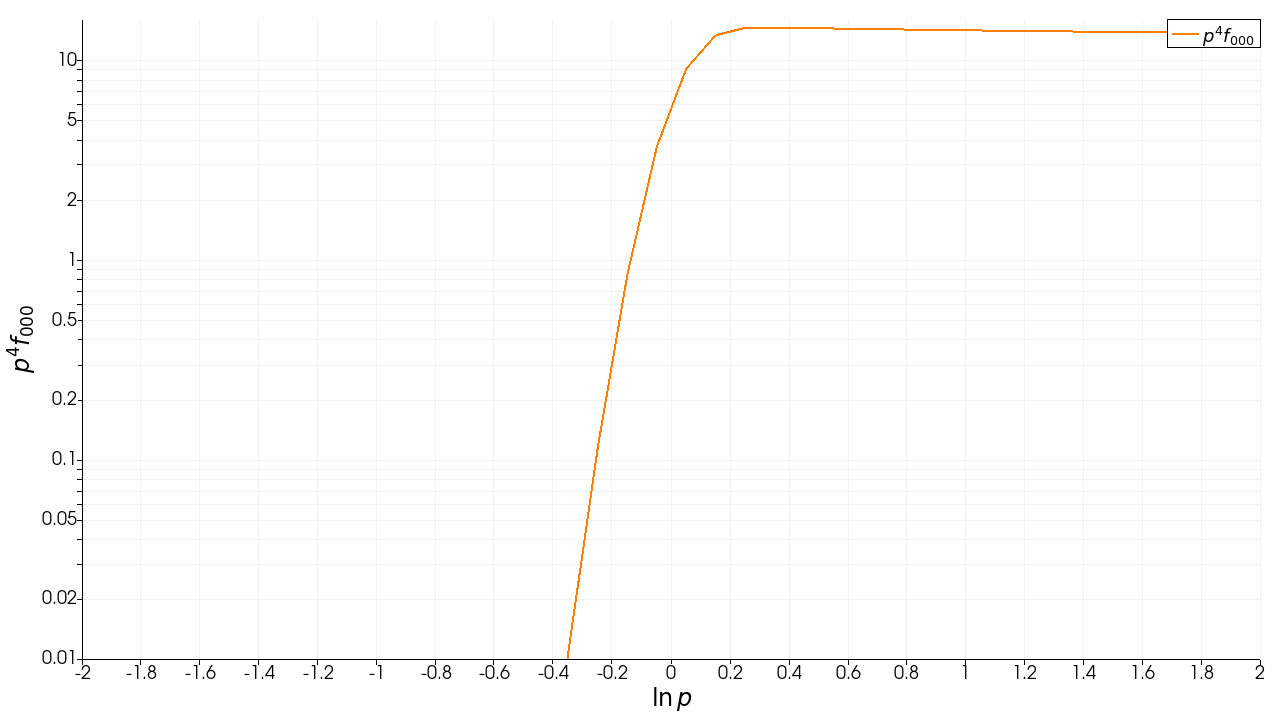
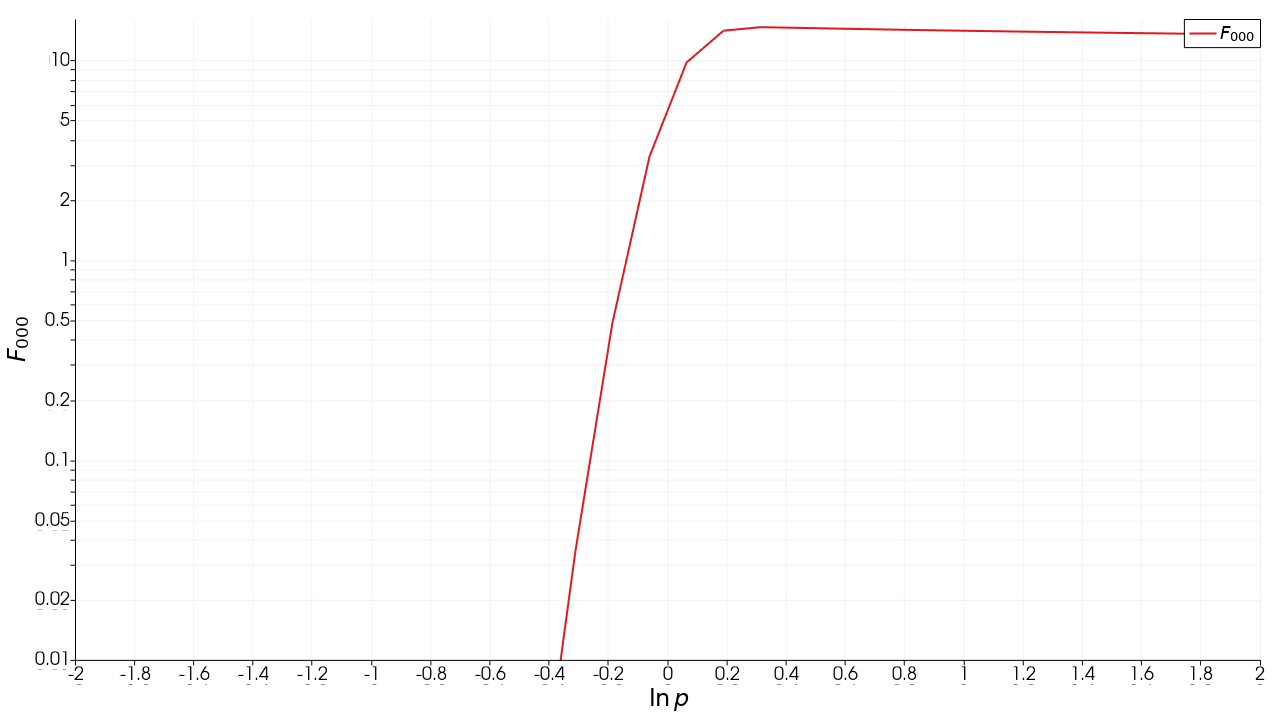
refactor(vfp): Rename scaled f: p^s f -> F

diff --git a/src/sapphireppplot/plot_properties_vfp.py b/src/sapphireppplot/plot_properties_vfp.py
@@ -27,7 +27,7 @@ class PlotPropertiesVFP(PlotProperties):
     scaled_distribution_function: bool = False
     """
     Is the distribution function scaled in Sapphire++ as
-    :math:`g = p^s f`?
+    :math:`g = p^3 f`?
     """
 
     lms_indices: Sequence[tuple[int, int, int]] = field(default_factory=list)
@@ -189,7 +189,7 @@ class PlotPropertiesVFP(PlotProperties):
             Prefix.
         base_name
             Base name for variable.
-            Defaults to "f", "g" or "p^s f".
+            Defaults to "f", "g" or "F".
 
         Returns
         -------
@@ -201,7 +201,7 @@ class PlotPropertiesVFP(PlotProperties):
             if self.scaled_distribution_function:
                 base_name = "g"
             if self._spectral_index:
-                base_name = "p^s f"
+                base_name = "F"
 
         return (
             prefix + f"{base_name}_{lms_index[0]}{lms_index[1]}{lms_index[2]}"
@@ -224,7 +224,7 @@ class PlotPropertiesVFP(PlotProperties):
             Postfix annotation of quantity.
         variable_name
             Name of the variable.
-            Defaults to "f", "g" or "p^s f".
+            Defaults to "f", "g" or "F".
 
         Returns
         -------
@@ -236,7 +236,7 @@ class PlotPropertiesVFP(PlotProperties):
             if self.scaled_distribution_function:
                 variable_name = "g"
             if self._spectral_index:
-                variable_name = f"p^{{ {self._spectral_index:g} }} f"
+                variable_name = "F"
 
         tmp_postfix = ""
         if annotation:

diff --git a/src/sapphireppplot/vfp.py b/src/sapphireppplot/vfp.py
@@ -348,7 +348,7 @@ def scale_distribution_function(
     spectral_index: float = 4.0,
 ) -> tuple[paraview.servermanager.SourceProxy, PlotPropertiesVFP]:
     """
-    Scales the distribution function to the desired spectral index :math:`s`.
+    Compute the scaled distribution function :math:`F_{lms}`.
 
     This will create a number of calculator objects,
     each scaling one specific lms_index.
@@ -356,19 +356,19 @@ def scale_distribution_function(
     Parameters
     ----------
     solution
-        The the data to scale.
+        The the data to scale, :math:`f_{lms}` or :math:`g_{lms}`.
     plot_properties_in
         Properties of the source.
     lms_indices
         The list of indices ``[(l_1,m_1,s_1), (l_2,m_2,s_2)]`` to scale.
         Only these indices will be active in the new solution.
     spectral_index
-        Spectral index to scale the distributions function f.
+        Spectral index :math:`s`.
 
     Returns
     -------
     solution_scaled : SourceProxy
-        The scaled distribution function :math:`p^s f_{lms}` for lms_indices.
+        The scaled distribution function `F_lms` for `lms_indices`.
     plot_properties : PlotPropertiesVFP
         Solution properties for the scaled distribution function.
     """

diff --git a/docs/examples/plot_quick_start.md b/docs/examples/plot_quick_start.md
@@ -144,9 +144,9 @@ and use an offset to specify that the profile is shown at $\ln p = 0.05$
 
 ![Quick-start spatial profile](figures/quick-start-f-x.png)
 
-## Plotting $p^4 f(p)$
+## Plotting $F(p) = p^4 f(p)$
 
-As second to final plot, we show the scaled spectrum $p^4 f_{000}$ at $x=0.1$.
+As second to final plot, we show the scaled spectrum $F_{000} = p^4 f_{000}$ at $x=0.1$.
 First, scale the distribution function to $p^4 f$ using
 {py:func}`vfp.scale_distribution_function() <sapphireppplot.vfp.scale_distribution_function>`.
 Then, plot the spectrum of the scaled solution (`solution_scaled`)
